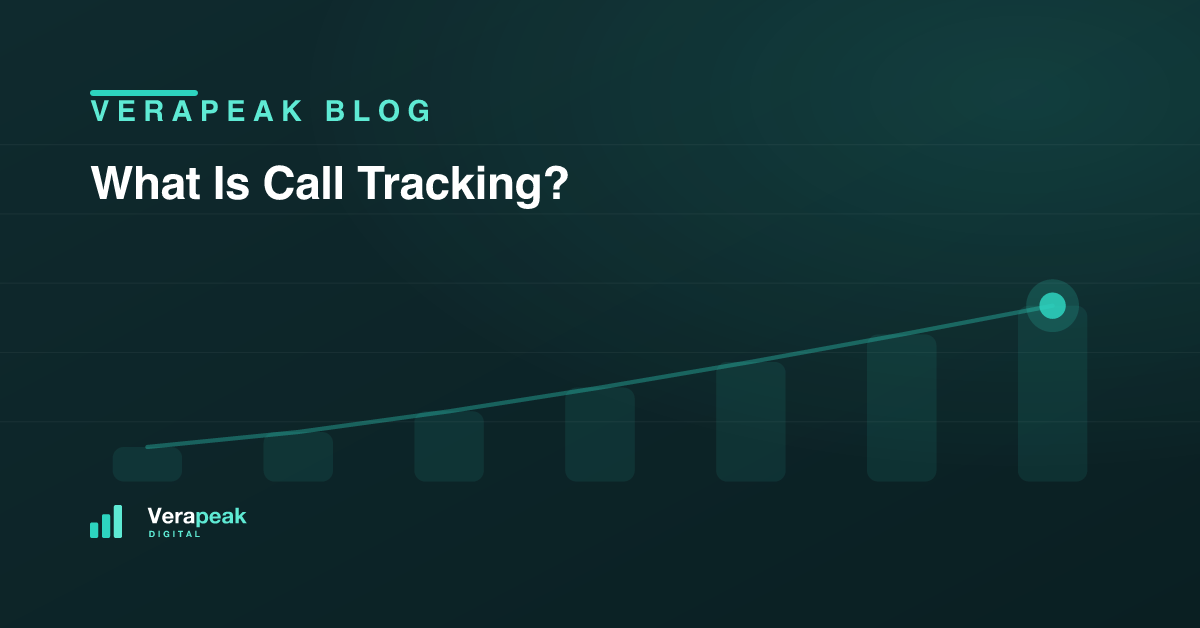
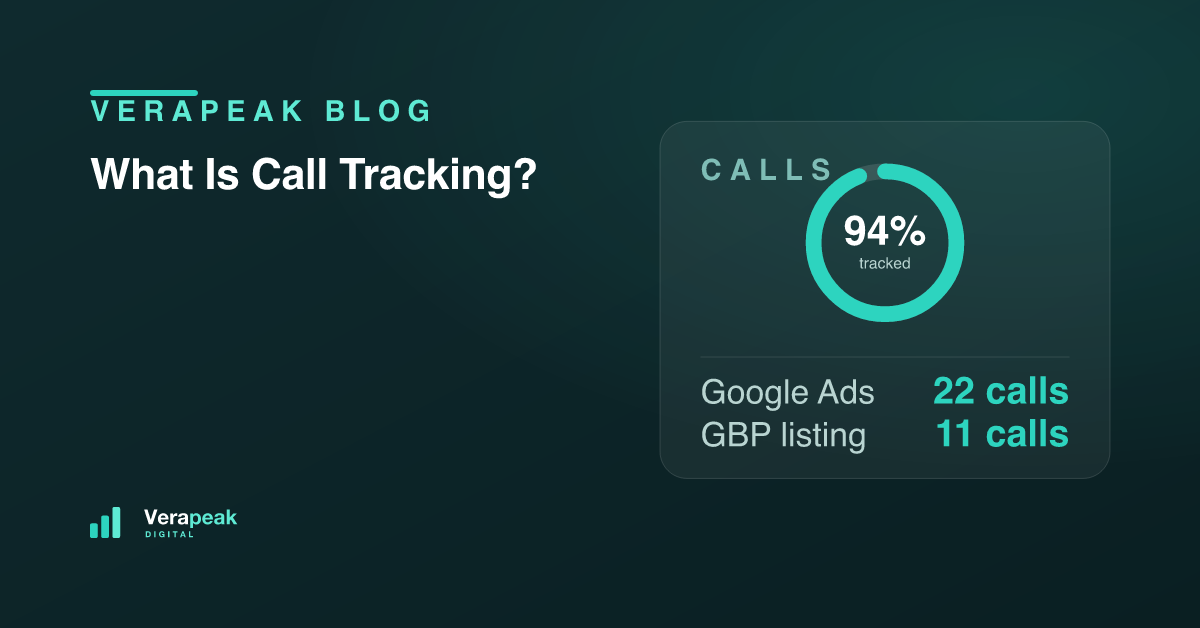
Blog: call-tracking hero image swapped to call-sources dashboard variant

diff --git a/src/content/blog/what-is-call-tracking-small-business.md b/src/content/blog/what-is-call-tracking-small-business.md
@@ -5,7 +5,7 @@ pubDate: 2026-07-03
 author: "Dean Bishop"
 tags: ["analytics", "call tracking", "small business"]
 heroImage: "/assets/blog/what-is-call-tracking-small-business.png"
-heroImageAlt: "Verapeak Digital blog cover with a rising bar chart, titled What Is Call Tracking?"
+heroImageAlt: "Verapeak Digital blog cover with a call-sources dashboard showing tracked calls per channel, titled What Is Call Tracking?"
 draft: false
 ---
 